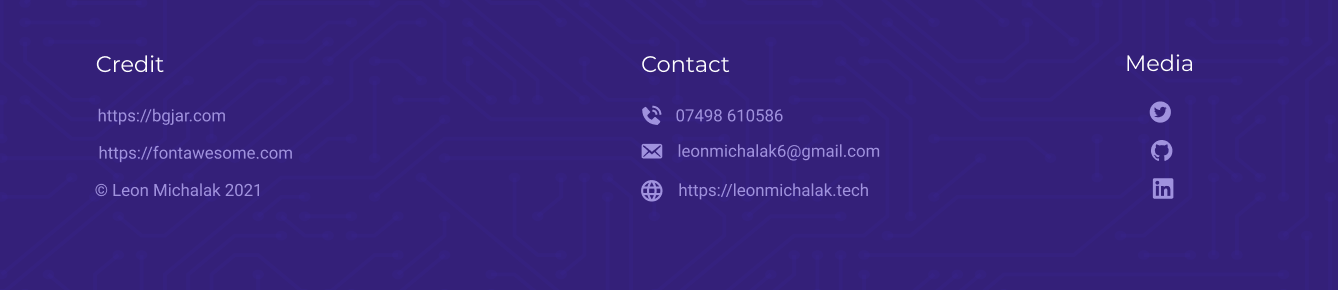
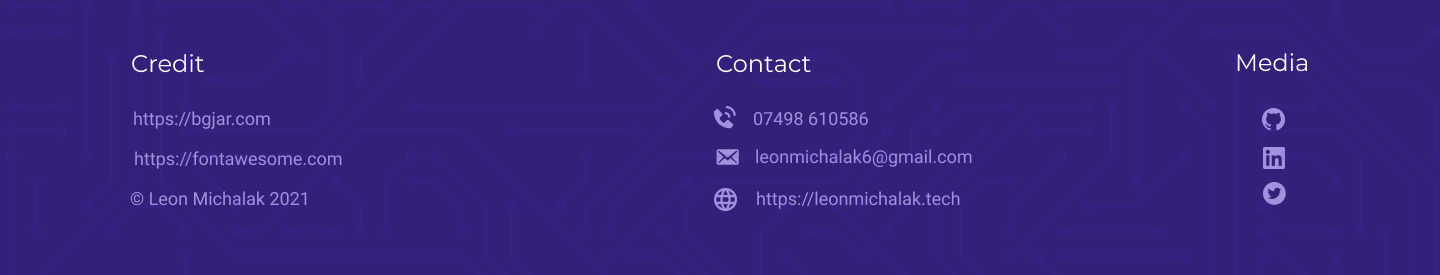
Footer responsive

diff --git a/src/components/UI/Footer/Footer.css b/src/components/UI/Footer/Footer.css
@@ -38,9 +38,12 @@ footer h3 {
 
 footer li,
 footer svg,
-footer a {
+footer a,
+footer p {
   color: #a092de;
   font-size: 1.2rem;
+  text-align: left;
+  word-break: break-all;
 }
 
 footer a:hover,
